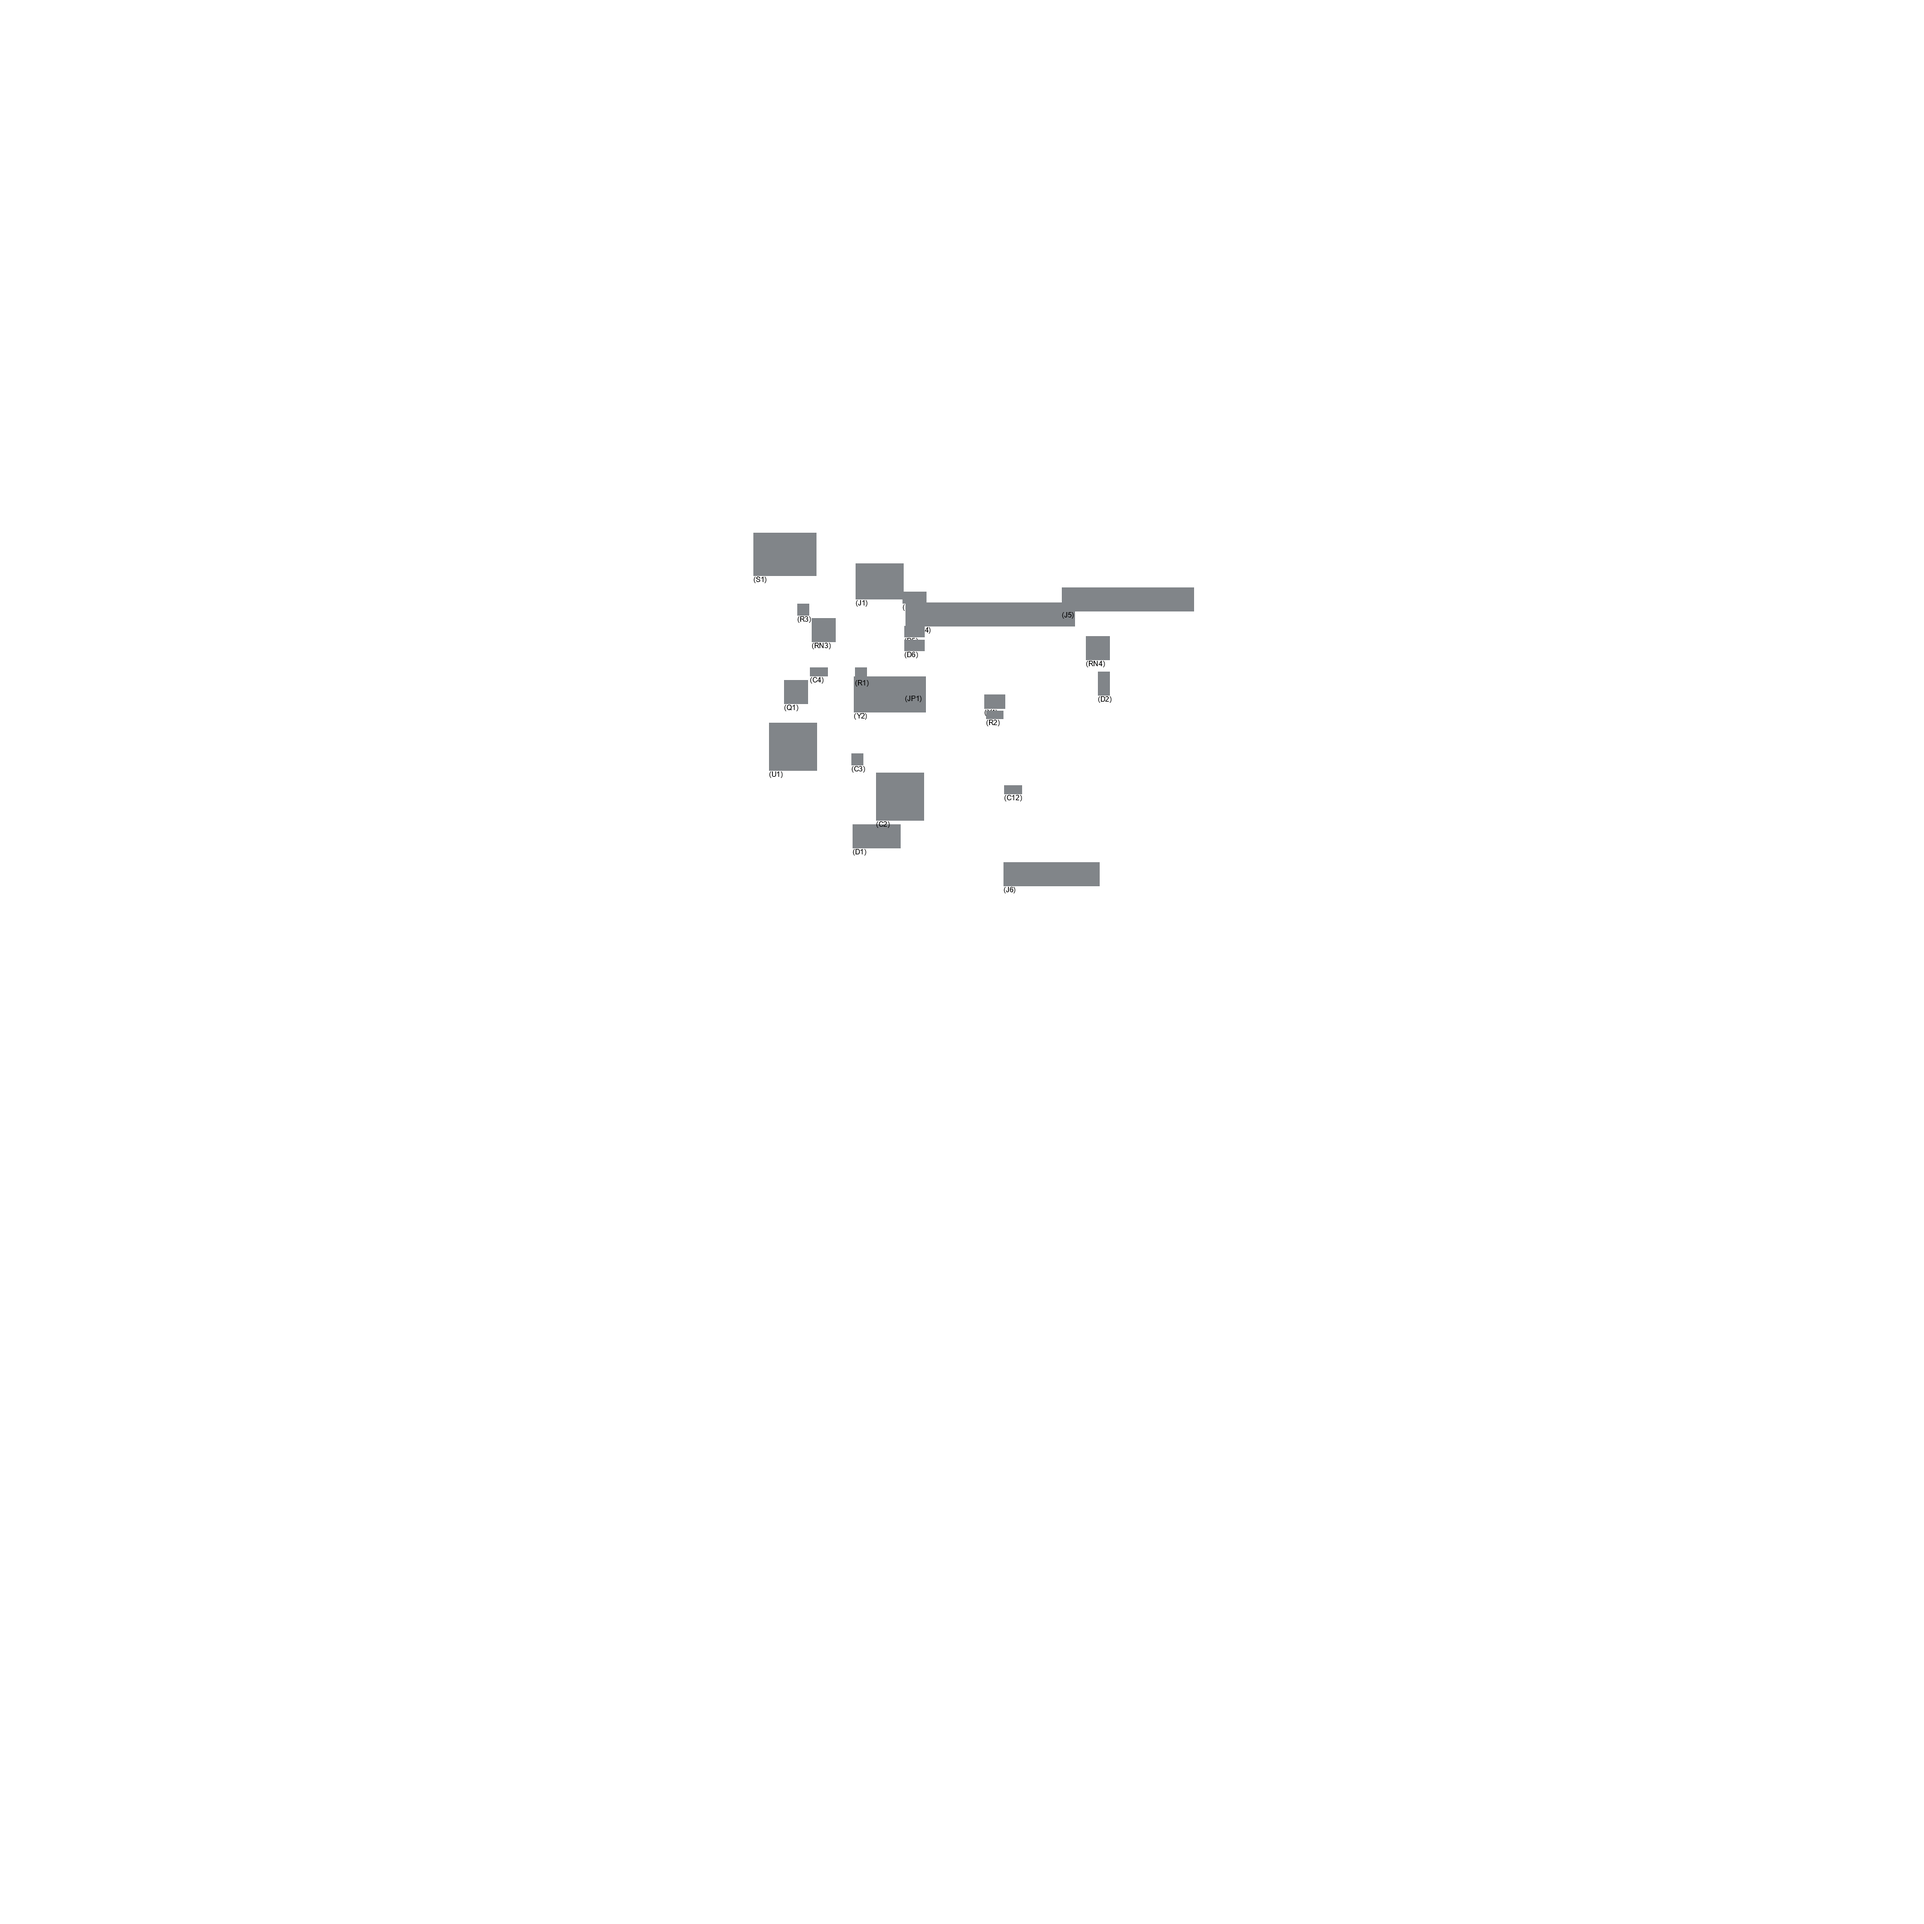
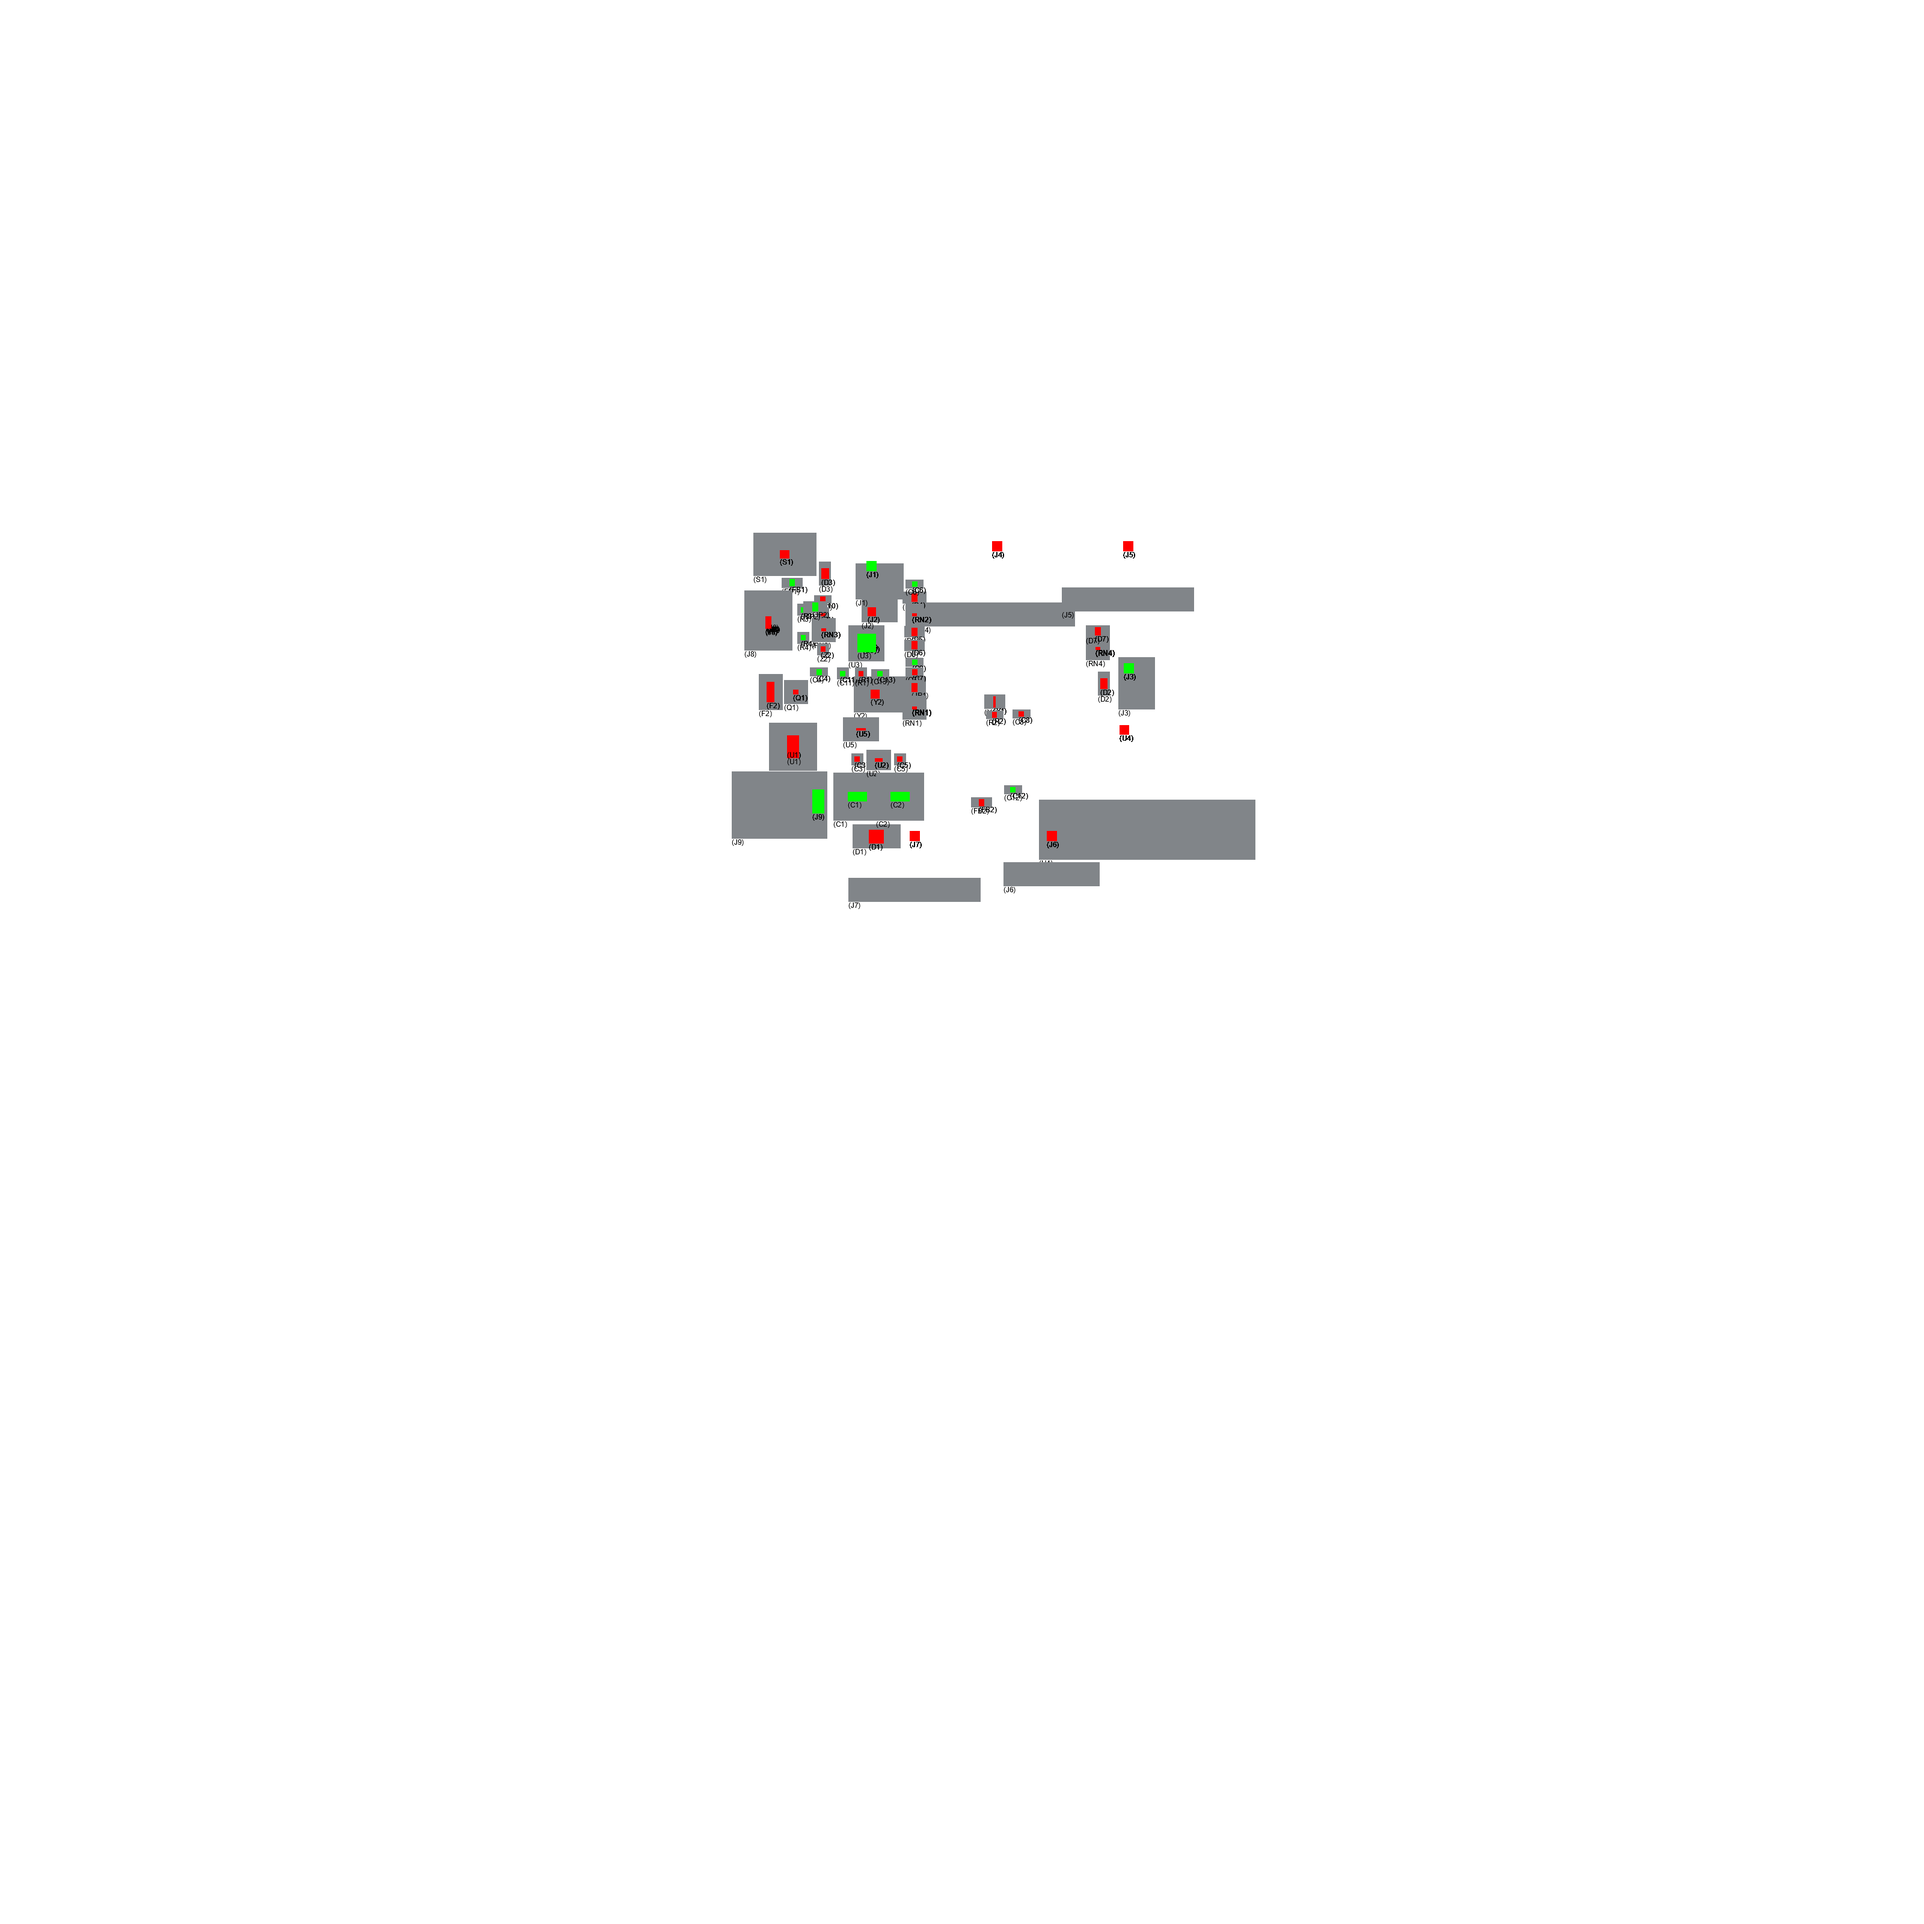
finally working but pins broken

Changed region(s): [[0.375, 0.2812, 0.6562, 0.4688], [0.5625, 0.3125, 0.625, 0.375]]

diff --git a/pcb-layout/src/kicad_parse.rs b/pcb-layout/src/kicad_parse.rs
@@ -7,17 +7,18 @@ use std::collections::BTreeMap;
 
 use std::fs;
 
-fn parse_kicad_line_to_floats(passed_str: &str) -> (f64, f64) {
+fn parse_kicad_line_to_floats(passed_str: &str) -> Option<(f64, f64)> {
     let x_y_str = passed_str.trim().replace(")", "");
     let x_y_vec: Vec<&str> = x_y_str.split(" ").collect();
     if x_y_vec.len() < 3 {
         println!("{:?}", x_y_vec);
+        return None;
     }
 
-    (
+    Some((
         x_y_vec[1].parse::<f64>().unwrap(),
         x_y_vec[2].parse::<f64>().unwrap(),
-    )
+    ))
 }
 pub fn parse_file() -> Placement {
     // --snip--
@@ -63,7 +64,6 @@ pub fn parse_file() -> Placement {
             net_map.insert(net_idx, net_name);
         }
         if line.starts_with("\t(footprint ") {
-            //println!("{}","new Device");
             line = content_iter.next().unwrap();
             line = content_iter.next().unwrap();
             let x_y_str = content_iter.next().unwrap().trim_end().replace(")", "");
@@ -85,40 +85,65 @@ pub fn parse_file() -> Placement {
                 .replace("\"", "")
                 .trim()
                 .to_string();
+            println!("new Device: {}", refdes_str.clone());
             //println!("{}", refdes_str.clone());
             refdes = &refdes_str;
             //println!("{} at ({},{}) ", refdes_str, x1,y1);
             let mut in_shape: bool = true;
             while in_shape {
-                while !line.contains("fp_line") {
+                while !line.contains("fp_") {
+                    if refdes == "JP2" {
+                        println!("{}", line);
+                    }
                     //this might be where the loop ends?
                     line = content_iter.next().unwrap_or_else(|| {
                         in_shape = false;
                         "bad"
+
                     });
+                    
 
                     if line.contains("pad") {
                         in_shape = false
                     };
+                    if !in_shape{
+                        break;
+                    }
                 }
+
                 //now were in a shape
                 let start = content_iter.next().unwrap().trim();
                 let end = content_iter.next().unwrap().trim();
                 while !line.contains("layer") {
                     line = content_iter.next().unwrap();
+                    if line.contains("pad") {
+                        in_shape = false;
+                        break;
+                    };
                 }
                 if line.contains(footprint_layer) {
                     //parse and add start and end
-                    let (x, y) = parse_kicad_line_to_floats(start);
-                    xs.push(x + x1);
-                    ys.push(y + y1);
-                    let (x, y) = parse_kicad_line_to_floats(end);
-                    xs.push(x + x1);
-                    ys.push(y + y1);
-
-                    //println!("{}, {}",x + x1 ,y+ y1);
+                    let opt = parse_kicad_line_to_floats(start);
+                    match opt {
+                        Some(tple) => {
+                            let (x,y) = tple;
+                            xs.push(x + x1);
+                            ys.push(y + y1);
+                        }
+                        None    => ()
+                    }
+                    let opt = parse_kicad_line_to_floats(end);
+                    match opt {
+                        Some(tple) => {
+                            let (x,y) = tple;
+                            xs.push(x + x1);
+                            ys.push(y + y1);
+                        }
+                        None    => ()
+                    }
                 }
             }
+            println!("OUT OF SHAPE");
             //now its pin time
             //
             if !xs.is_empty() {
@@ -129,11 +154,14 @@ pub fn parse_file() -> Placement {
                     comp_bbox.rotate(rotation as f64);
                 }
                 let mut pin_vec: Vec<Pin> = Vec::new();
+                if refdes == "JP2" {
+                    println!("{}", line);
+                }
                 //outer pin loop
                 while !line.contains("model") && !line.starts_with("\t)") {
                     while !line.contains("pad ") {
                         line = content_iter.next().unwrap();
-                        if refdes == "C4" {
+                        if refdes == "JP2" {
                             println!("{}", line);
                         }
                         if line.contains("model") || line.starts_with("\t)") {
@@ -141,17 +169,22 @@ pub fn parse_file() -> Placement {
                         }
                     }
                     if line.contains("model") || line.starts_with("\t)") {
-                        println!("Found all pins for {}", refdes);
+                        if refdes == "JP2" {
+                            println!("{}", line);
+                        }
+                        println!("Found all {} pins for {}", pin_vec.len(), refdes);
                         break;
                     }
                     if line.contains("pad ") {
                         line = content_iter.next().unwrap();
                         //println!("{}", line);
-                        let (mut px1, mut py1) = parse_kicad_line_to_floats(line);
-                        px1 += comp_bbox.centerx;
-                        py1 += comp_bbox.centery;
+                        let (mut px1, mut py1) = parse_kicad_line_to_floats(line).unwrap();
+                        //px1 += comp_bbox.centerx;
+                        //py1 += comp_bbox.centery;
+                        px1 = x1;
+                        py1 = y1;
                         line = content_iter.next().unwrap();
-                        let (mut px2, mut py2) = parse_kicad_line_to_floats(line);
+                        let (mut px2, mut py2) = parse_kicad_line_to_floats(line).unwrap();
                         px1 -= px2 / 2.0;
                         py1 -= py2 / 2.0;
 

diff --git a/pcb-layout/src/main.rs b/pcb-layout/src/main.rs
@@ -127,7 +127,8 @@ impl Individual {
             backend.draw(&ii);
             for p in &i.pins {
                 let ii = get_pin_rect(p);
-                //backend.draw(&ii);
+                backend.draw(&ii);
+                backend.draw(&label_pin(p));
             }
 
             /*
